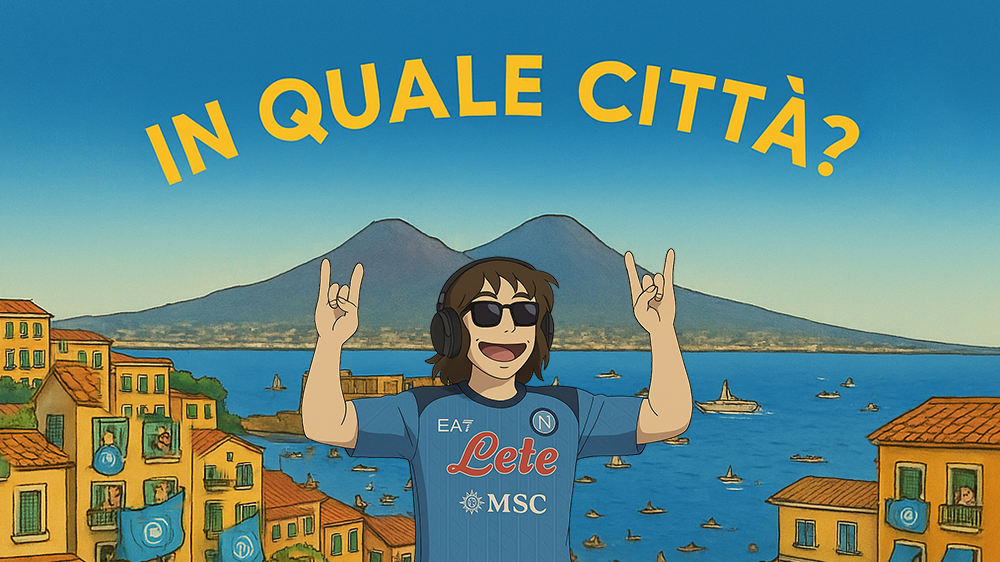
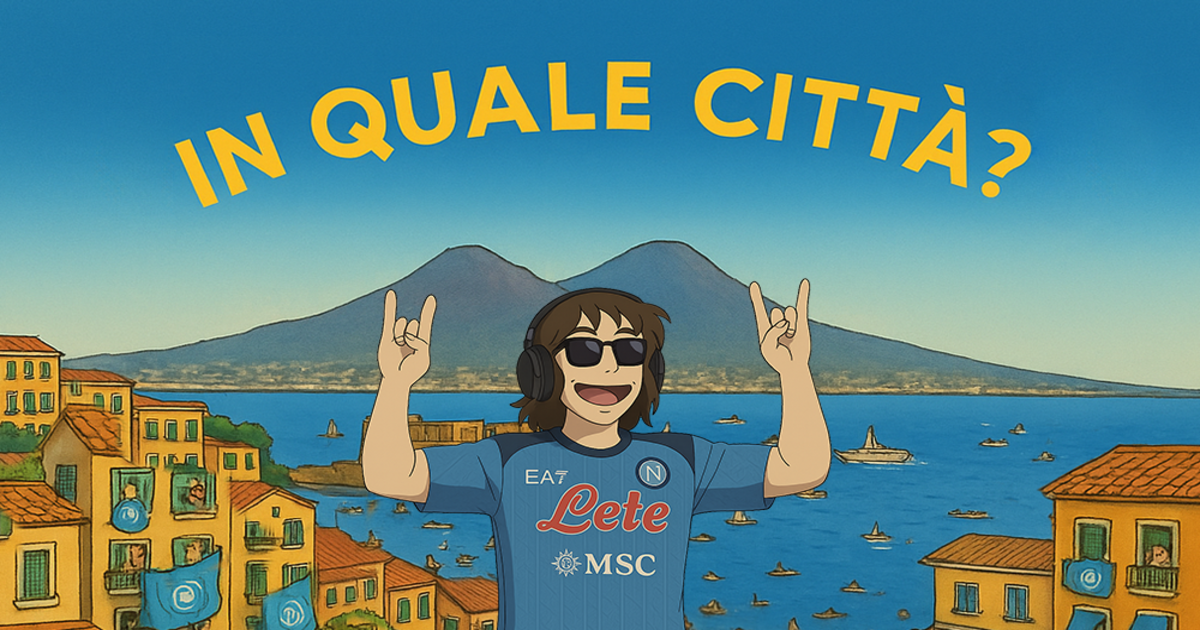
Fix WhatsApp preview image loading by updating meta tags and image dimensions
Replit-Commit-Author: Agent
Replit-Commit-Session-Id: 36c2e9e8-fe87-45fb-821e-268bd837deca
Replit-Commit-Screenshot-Url: https://storage.googleapis.com/screenshot-production-us-central1/70bad33f-4b80-4730-98aa-9ab20aa0b2f9/f4af8b15-f835-404f-9710-bb4de5e5bb73.jpg

diff --git a/client/index.html b/client/index.html
@@ -10,8 +10,9 @@
      <meta property="og:title" content="Suono Napoletano" />
      <meta property="og:description" content="In quale città?" />
      <meta property="og:image" content="https://suononapoletano.com/preview-v2.png" />
-     <meta property="og:image:width" content="1280" />
-     <meta property="og:image:height" content="720" />
+     <meta property="og:image:type" content="image/png" />
+     <meta property="og:image:width" content="1200" />
+     <meta property="og:image:height" content="630" />
      <meta property="og:image:alt" content="Napoli skyline with Mount Vesuvius and 'IN QUALE CITTÀ?' text" />
      <meta property="og:type" content="website" />
      <meta property="og:url" content="https://suononapoletano.com" />
@@ -30,10 +31,11 @@
      <meta name="twitter:description" content="In quale città?" />
      <meta name="twitter:image" content="https://suononapoletano.com/preview-v2.png" />
      
-     <!-- WhatsApp specific -->
-     <meta property="og:image:type" content="image/png" />
+     <!-- WhatsApp specific - using additional Open Graph tags that WhatsApp recognizes -->
      <meta property="og:image:secure_url" content="https://suononapoletano.com/preview-v2.png" />
      <meta property="og:image:url" content="https://suononapoletano.com/preview-v2.png" />
+     
+     <!-- These non-standard tags might be used by some services -->
      <meta name="whatsapp:title" content="Suono Napoletano" />
      <meta name="whatsapp:description" content="In quale città?" />
      <meta name="whatsapp:image" content="https://suononapoletano.com/preview-v2.png" />
